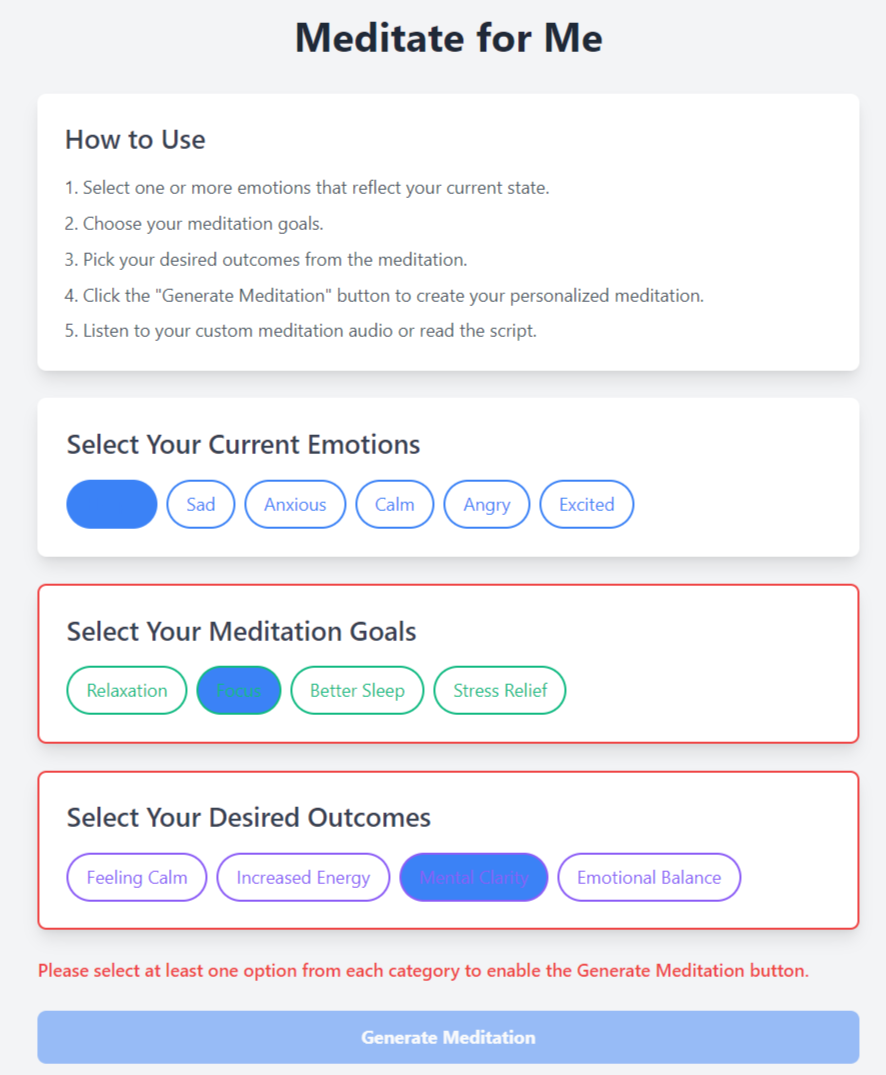
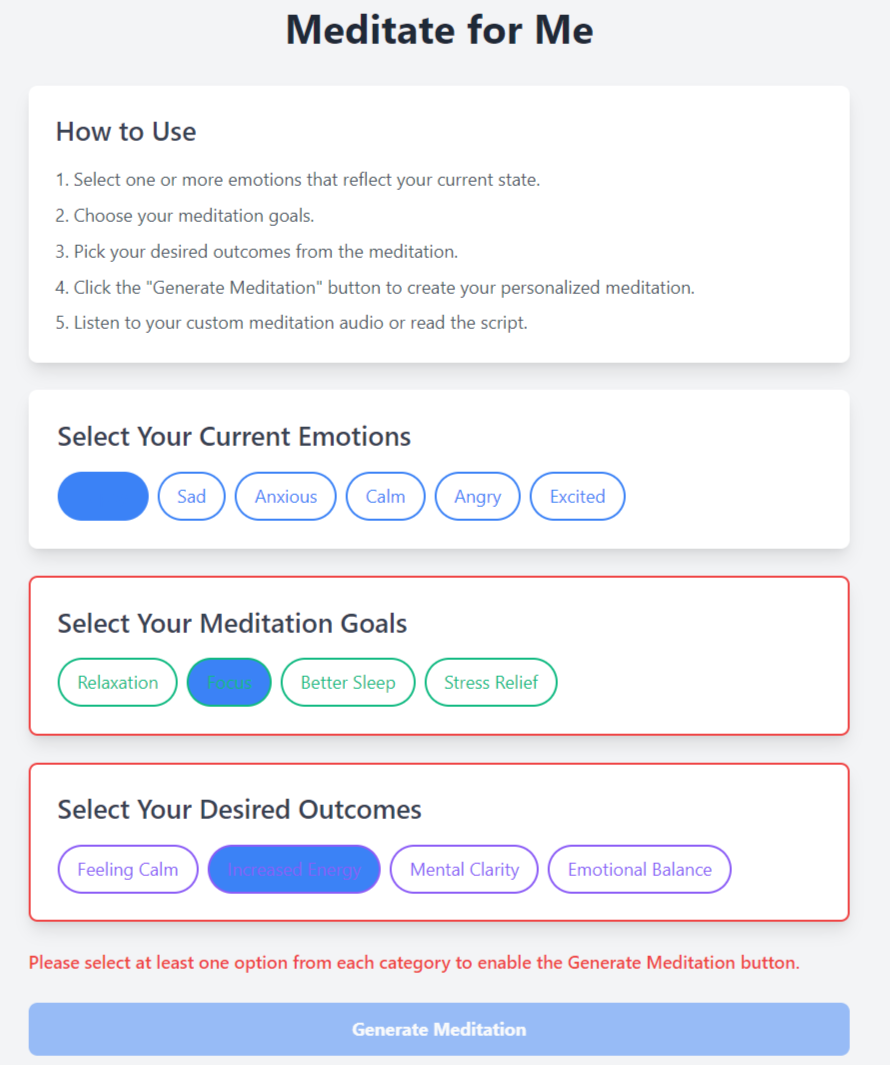
Agent step completed: Fix the validation logic for the Generate Meditation button

diff --git a/static/js/app.js b/static/js/app.js
@@ -33,39 +33,45 @@ document.addEventListener('DOMContentLoaded', function() {
 
     function validateSelections() {
         const selectedEmotions = document.querySelectorAll('#emotionSelector button.bg-blue-500');
-        const selectedGoals = document.querySelectorAll('#goalSelector button.bg-green-500');
-        const selectedOutcomes = document.querySelectorAll('#outcomeSelector button.bg-purple-500');
+        const selectedGoals = document.querySelectorAll('#goalSelector button.bg-blue-500');
+        const selectedOutcomes = document.querySelectorAll('#outcomeSelector button.bg-blue-500');
 
         const emotionContainer = document.getElementById('emotionContainer');
         const goalContainer = document.getElementById('goalContainer');
         const outcomeContainer = document.getElementById('outcomeContainer');
 
+        const isValid = selectedEmotions.length > 0 && selectedGoals.length > 0 && selectedOutcomes.length > 0;
+
         emotionContainer.classList.toggle('border-red-500', selectedEmotions.length === 0);
         goalContainer.classList.toggle('border-red-500', selectedGoals.length === 0);
         outcomeContainer.classList.toggle('border-red-500', selectedOutcomes.length === 0);
 
-        generateButton.disabled = selectedEmotions.length === 0 || selectedGoals.length === 0 || selectedOutcomes.length === 0;
-        generateButton.classList.toggle('opacity-50', generateButton.disabled);
-        generateButton.classList.toggle('cursor-not-allowed', generateButton.disabled);
+        generateButton.disabled = !isValid;
+        generateButton.classList.toggle('opacity-50', !isValid);
+        generateButton.classList.toggle('cursor-not-allowed', !isValid);
+        generateButton.classList.toggle('bg-blue-500', isValid);
+        generateButton.classList.toggle('bg-gray-400', !isValid);
 
         const instructions = document.getElementById('selectionInstructions');
-        if (generateButton.disabled) {
+        if (!isValid) {
             instructions.textContent = 'Please select at least one option from each category to enable the Generate Meditation button.';
             instructions.classList.remove('hidden');
         } else {
             instructions.classList.add('hidden');
         }
+
+        return isValid;
     }
 
     generateButton.addEventListener('click', async () => {
-        const selectedEmotions = [...document.querySelectorAll('#emotionSelector button.bg-blue-500')].map(tag => tag.textContent);
-        const selectedGoals = [...document.querySelectorAll('#goalSelector button.bg-green-500')].map(tag => tag.textContent);
-        const selectedOutcomes = [...document.querySelectorAll('#outcomeSelector button.bg-purple-500')].map(tag => tag.textContent);
-
-        if (selectedEmotions.length === 0 || selectedGoals.length === 0 || selectedOutcomes.length === 0) {
+        if (!validateSelections()) {
             showError('Please select at least one emotion, goal, and outcome.');
             return;
         }
+
+        const selectedEmotions = [...document.querySelectorAll('#emotionSelector button.bg-blue-500')].map(tag => tag.textContent);
+        const selectedGoals = [...document.querySelectorAll('#goalSelector button.bg-green-500')].map(tag => tag.textContent);
+        const selectedOutcomes = [...document.querySelectorAll('#outcomeSelector button.bg-purple-500')].map(tag => tag.textContent);
 
         showLoading(true);
         hideError();
